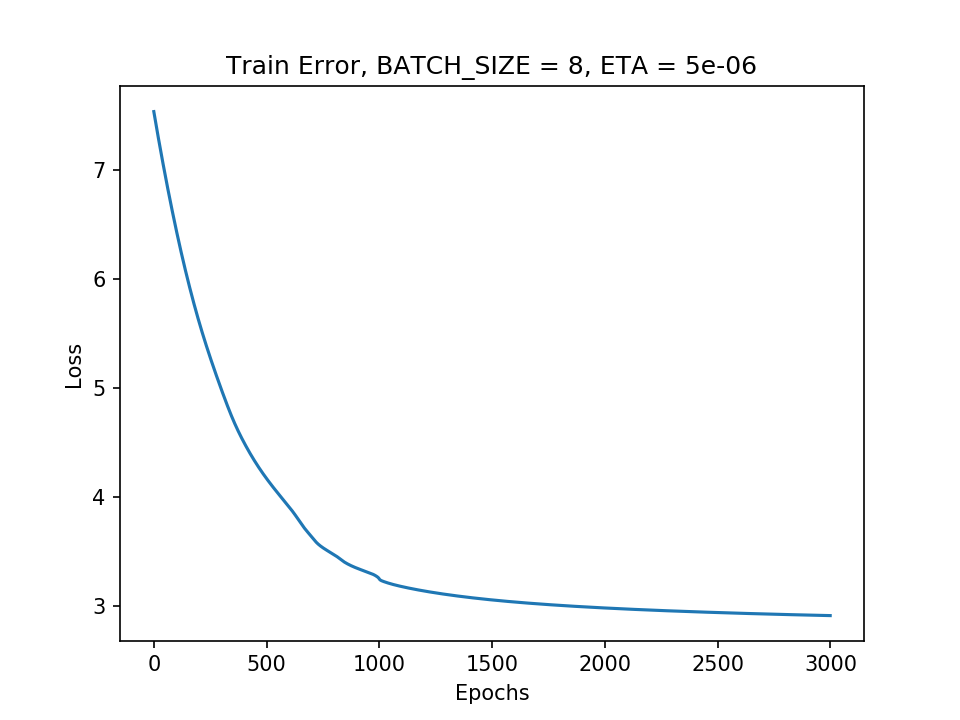
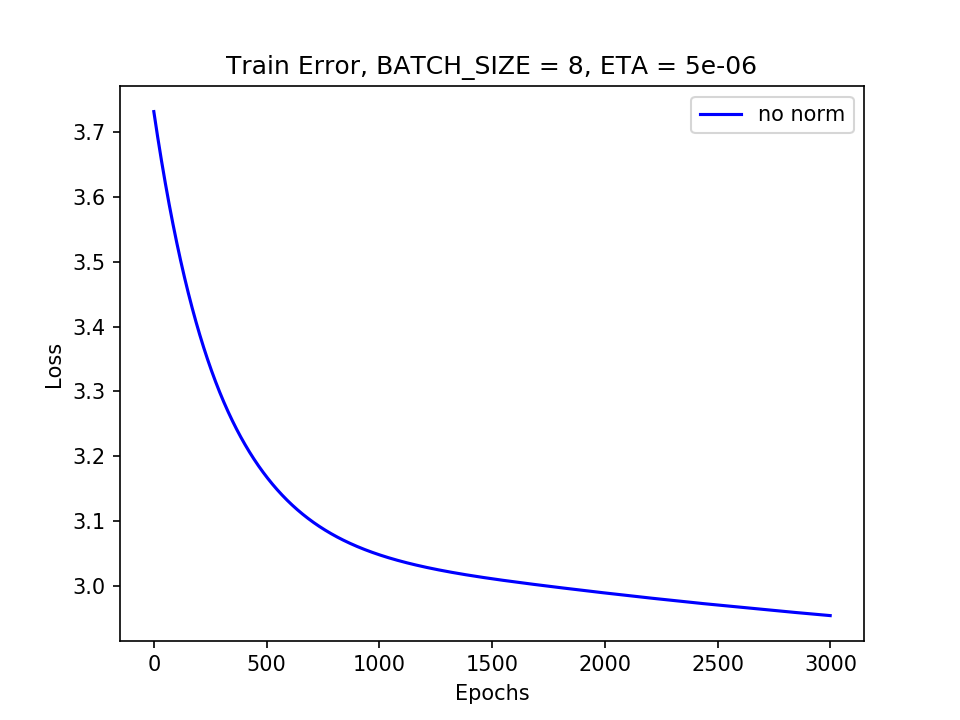
Doing normalization

diff --git a/HW1/dnn_1.py b/HW1/dnn_1.py
@@ -16,7 +16,7 @@ N_DIM = 6
 
 N_UNIT_1 = 4 # unit for layer 1
 N_BATCH_SIZE = int(sys.argv[2])
-N_EPOCH_LIMIT = 50
+N_EPOCH_LIMIT = 3000
 LEARNING_RATE = float(sys.argv[3])
 
 epoch_list = []
